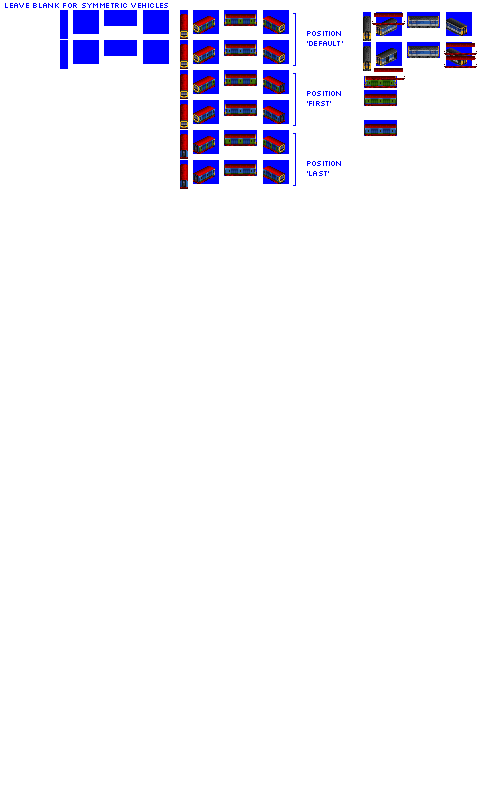
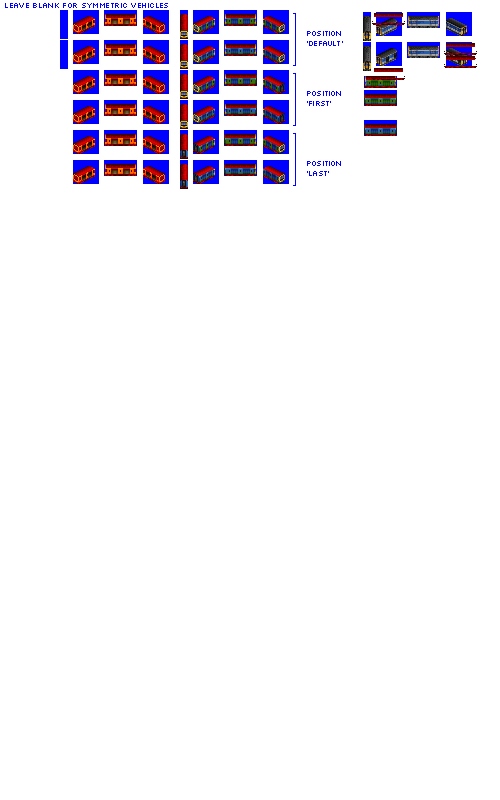
Change: sprites complete for Happy Train and Mail Rail

Changed region(s): [[0.12, 0.0, 0.36, 0.25]]

diff --git a/src/vehicles/mail_rail.py b/src/vehicles/mail_rail.py
@@ -5,9 +5,9 @@ consist = MailEngineRailcarConsist(id='mail_rail',
                                    name='Mail Rail',
                                    role='mail_railcar',
                                    power=700,
-                                   # matched to fast (in this gen) freight speeds
                                    type_base_running_cost_points=-32,  # dibble running costs for game balance
                                    gen=6,
+                                   sprites_complete=True,
                                    intro_date_offset=-5)  # introduce early by design
 
 consist.add_unit(type=DieselRailcarUnit,

diff --git a/src/vehicles/happy_train.py b/src/vehicles/happy_train.py
@@ -7,6 +7,7 @@ consist = PassengerEngineRailcarConsist(id='happy_train',
                                         power=500,
                                         type_base_running_cost_points=-36,  # dibble running costs for game balance
                                         gen=6,
+                                        sprites_complete=True,
                                         intro_date_offset=-5)  # introduce early by design
 
 consist.add_unit(type=DieselRailcarUnit,
